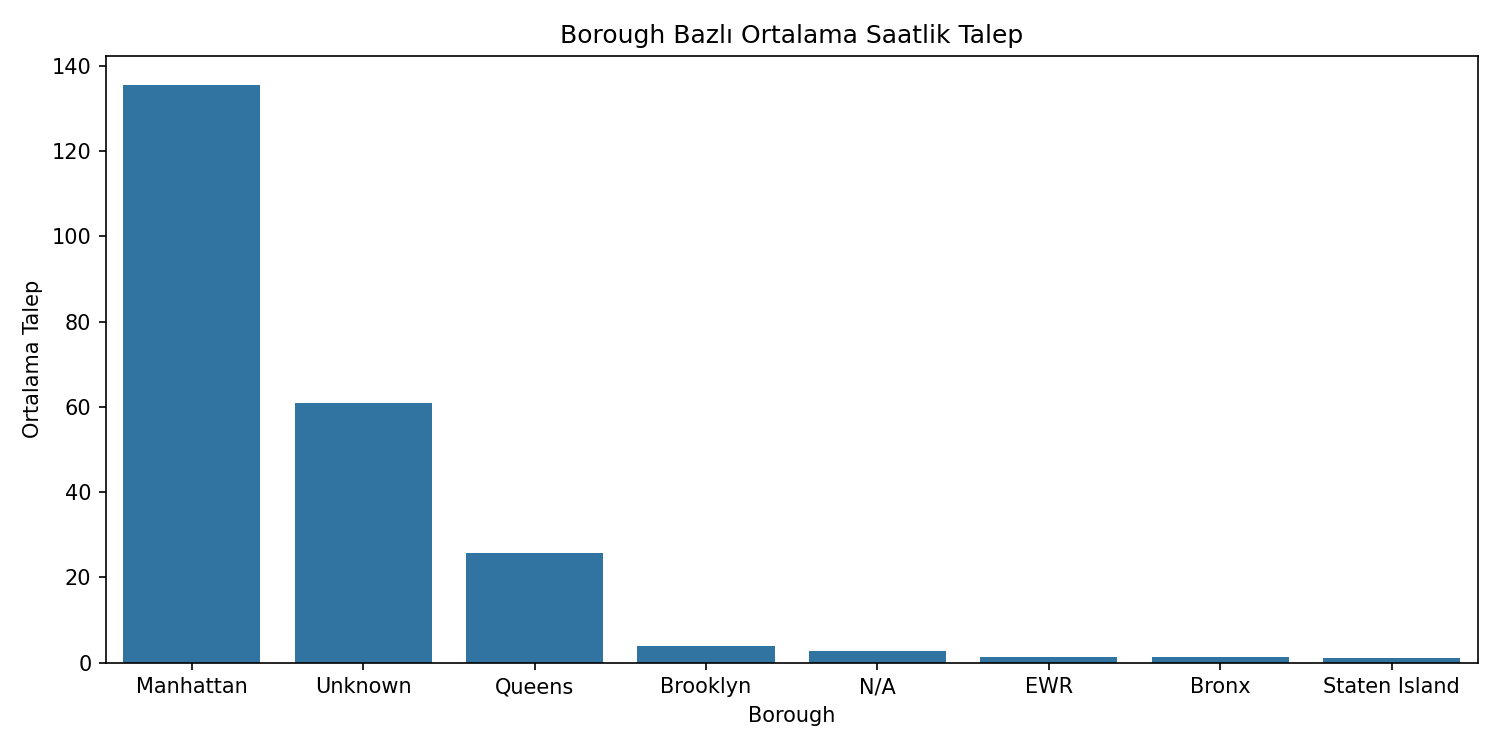
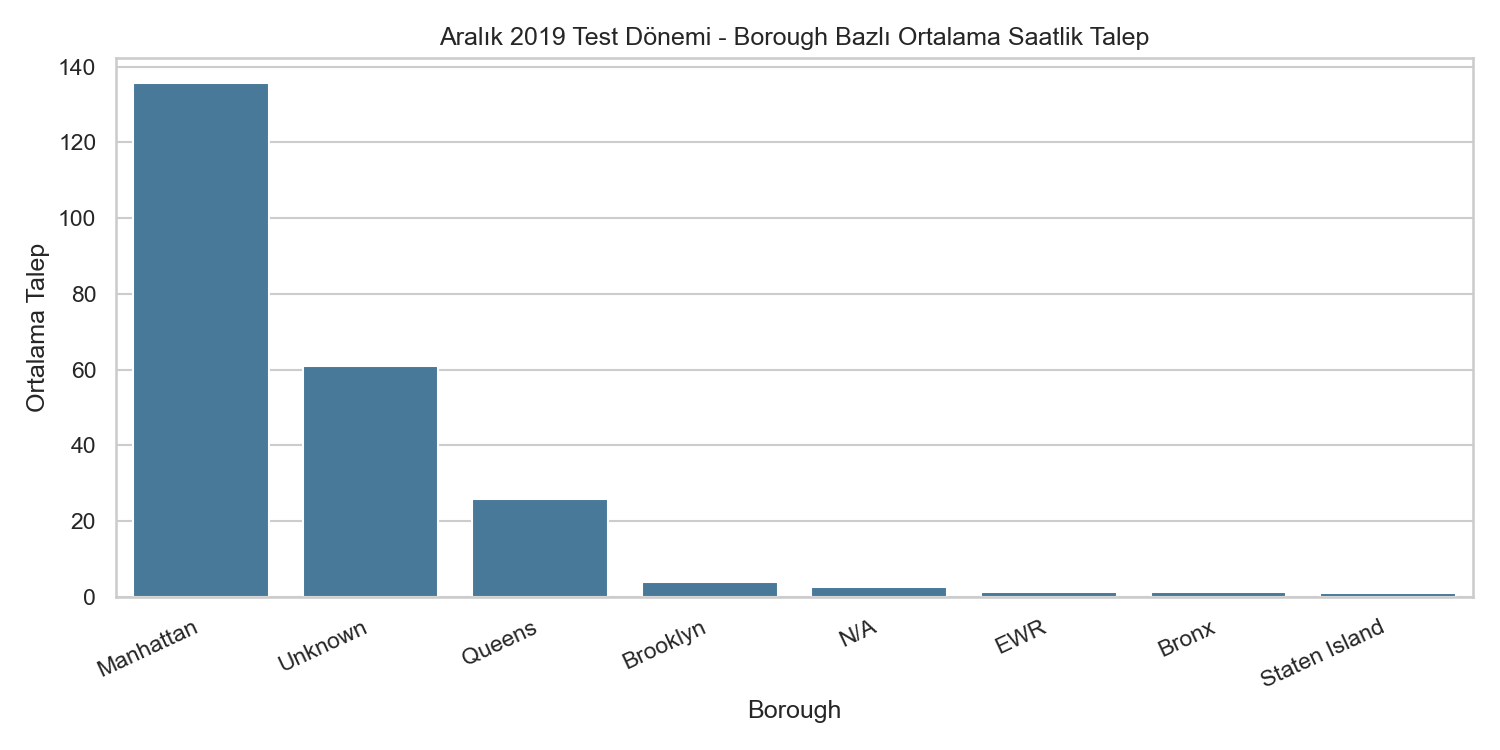
visualization.py güncellendi

Changed region(s): [[0.0, 0.0307, 1.0, 0.92], [0.4907, 0.92, 0.552, 0.9813]]

diff --git a/src/05_visualization.py b/src/05_visualization.py
@@ -1,15 +1,66 @@
-import pandas as pd
 import matplotlib.pyplot as plt
+import pandas as pd
 import seaborn as sns
-from pyspark.sql.functions import avg, col
+from pyspark.sql.functions import abs as spark_abs
+from pyspark.sql.functions import avg, col, count, month
 
 from project_config import create_spark_session, data_path, reports_path
 
+
 spark = create_spark_session("NYC_Taxi_Visualization")
 
+# Aralık 2019 test/batch-inference sonuçları.
 predictions = spark.read.parquet(data_path("predictions"))
 
-# Aggregate in Spark and only collect the small chart-ready result.
+# Tam yıl boyunca oluşturulmuş bölge-saat özellikleri.
+features = spark.read.parquet(data_path("feature_store"))
+
+sns.set_theme(style="whitegrid")
+
+
+# 1) Tam yıl kapsamını görünür kılan aylık ortalama bölge-saat talebi.
+monthly_demand = (
+    features.groupBy(month("hour_start").alias("month"))
+    .agg(avg("demand").alias("average_demand"))
+    .orderBy("month")
+    .toPandas()
+)
+
+month_names = {
+    1: "Ocak",
+    2: "Şubat",
+    3: "Mart",
+    4: "Nisan",
+    5: "Mayıs",
+    6: "Haziran",
+    7: "Temmuz",
+    8: "Ağustos",
+    9: "Eylül",
+    10: "Ekim",
+    11: "Kasım",
+    12: "Aralık",
+}
+monthly_demand["Ay"] = monthly_demand["month"].map(month_names)
+
+plt.figure(figsize=(12, 5))
+sns.lineplot(
+    data=monthly_demand,
+    x="Ay",
+    y="average_demand",
+    marker="o",
+    linewidth=2.2,
+    color="#2f6f9f",
+)
+plt.title("2019 Aylık Ortalama Bölge-Saat Taksi Talebi")
+plt.xlabel("Ay")
+plt.ylabel("Ortalama Talep")
+plt.xticks(rotation=35, ha="right")
+plt.tight_layout()
+plt.savefig(reports_path("monthly_demand_2019.png"), dpi=150)
+plt.close()
+
+
+# 2) Yalnızca Aralık test dönemindeki gerçek taleplerin borough ortalamaları.
 borough_avg = (
     predictions.filter(col("Borough").isNotNull())
     .groupBy("Borough")
@@ -17,16 +68,52 @@ borough_avg = (
     .orderBy(col("average_demand").desc())
     .toPandas()
 )
+
 plt.figure(figsize=(10, 5))
-sns.barplot(data=borough_avg, x="Borough", y="average_demand")
-plt.title("Borough Bazlı Ortalama Saatlik Talep")
+sns.barplot(
+    data=borough_avg,
+    x="Borough",
+    y="average_demand",
+    color="#3b7ca6",
+)
+plt.title("Aralık 2019 Test Dönemi - Borough Bazlı Ortalama Saatlik Talep")
 plt.ylabel("Ortalama Talep")
 plt.xlabel("Borough")
+plt.xticks(rotation=25, ha="right")
 plt.tight_layout()
 plt.savefig(reports_path("borough_demand.png"), dpi=150)
 plt.close()
 
-# Collect exactly one week for the example zone instead of the complete test set.
+
+# 3) Status raporda planlanan zone bazlı hata analizi.
+# Çok az kaydı olan bölgelerin birkaç uç değerle listenin başına çıkmasını önlemek
+# için Aralık ayında en az 100 bölge-saat gözlemi bulunan zone'lar kullanılır.
+zone_errors = (
+    predictions.filter(col("Zone").isNotNull())
+    .withColumn("absolute_error", spark_abs(col("demand") - col("prediction")))
+    .groupBy("Zone")
+    .agg(
+        avg("absolute_error").alias("mae"),
+        count("*").alias("records"),
+    )
+    .filter(col("records") >= 100)
+    .orderBy(col("mae").desc())
+    .limit(15)
+    .toPandas()
+    .sort_values("mae", ascending=True)
+)
+
+plt.figure(figsize=(10, 7))
+sns.barplot(data=zone_errors, x="mae", y="Zone", color="#e07a5f")
+plt.title("Aralık 2019 - En Yüksek MAE'ye Sahip 15 Taksi Bölgesi")
+plt.xlabel("Ortalama Mutlak Hata (MAE)")
+plt.ylabel("Taksi Bölgesi")
+plt.tight_layout()
+plt.savefig(reports_path("zone_error_analysis.png"), dpi=150)
+plt.close()
+
+
+# 4) Görülmemiş Aralık test döneminden Midtown Center için ilk hafta.
 sample_zone = (
     predictions.filter(col("Zone") == "Midtown Center")
     .select("hour_start", "demand", "prediction")
@@ -34,14 +121,32 @@ sample_zone = (
     .limit(168)
     .toPandas()
 )
+
 plt.figure(figsize=(14, 5))
-plt.plot(sample_zone["hour_start"], sample_zone["demand"], label="Gerçek", alpha=0.8)
-plt.plot(sample_zone["hour_start"], sample_zone["prediction"], label="Tahmin", alpha=0.8)
+plt.plot(
+    sample_zone["hour_start"],
+    sample_zone["demand"],
+    label="Gerçek",
+    alpha=0.85,
+)
+plt.plot(
+    sample_zone["hour_start"],
+    sample_zone["prediction"],
+    label="Tahmin",
+    alpha=0.85,
+)
 plt.title("Midtown Center - Gerçek ve Tahmin (Aralık 2019, İlk Hafta)")
+plt.xlabel("Tarih")
+plt.ylabel("Saatlik Talep")
 plt.legend()
 plt.tight_layout()
 plt.savefig(reports_path("prediction_vs_actual.png"), dpi=150)
 plt.close()
 
-print("Görseller kaydedildi.")
+print("Görseller kaydedildi:")
+print("- monthly_demand_2019.png")
+print("- borough_demand.png")
+print("- zone_error_analysis.png")
+print("- prediction_vs_actual.png")
+
 spark.stop()
